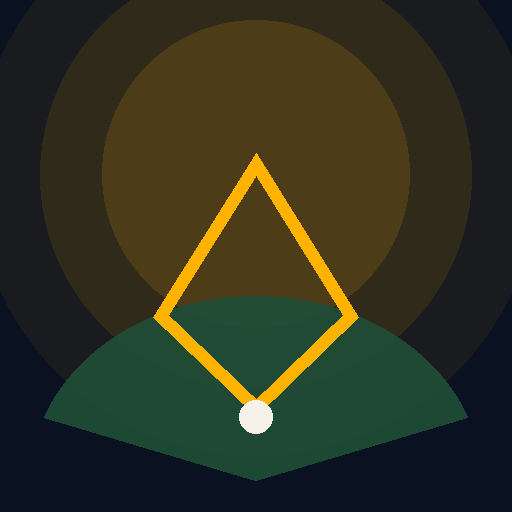
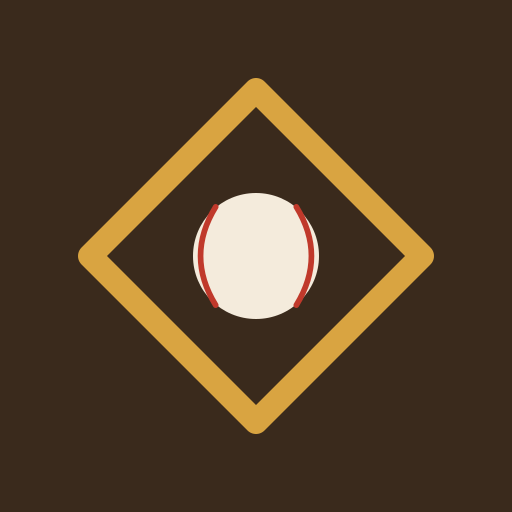
アプリアイコンをカードショップ・テーマの意匠に差し替え
箔（ゴールドグラデーション）の地に濃茶のカード枠を置き、金のダイヤモンドと
クリームのボールを重ねた意匠に変更。旧アイコン（ナイトテーマの緑の内野）は
現在の配色と合わなくなっていた。

- icons/icon.svg・icons/icon-maskable.svg を原本として追加し、PNGはここから書き出す
- maskable版はランチャーのマスクで図柄が欠けないよう背景を全面に敷き、
  ダイヤモンドとボールを中央のセーフゾーン内に収める
- ファイル名・manifest.json の記述は据え置き（差し替えのみ）

Claude-Session: https://claude.ai/code/session_01YYGGRabf311iJgp8gJVHub

diff --git a/CLAUDE.md b/CLAUDE.md
@@ -52,13 +52,15 @@ js/
   trivia.js       … 豆知識コンテンツ集（ルール・記録/歴史・用語）とランダム抽出
   rules.js        … MLBルール解説画面（カテゴリ別の折りたたみ静的コンテンツ）
   notifications.js … Web Push購読・解除・お気に入りチームIDのSupabase同期
-icons/            … オリジナル生成アイコン（商標不使用）
+icons/            … オリジナル生成アイコン（商標不使用）。icon.svg / icon-maskable.svg が原本で、
+                    icon-192.png・icon-512.png・icon-maskable-512.png はそこから書き出したもの
 supabase/schema.sql … Push購読テーブルのDDL（Supabase SQL Editorで実行）
 scripts/send-notifications.mjs … 毎日夕方JSTのPushダイジェスト送信（GitHub Actions専用・送信ウィンドウ判定つき）
 .github/workflows/notify.yml    … 送信スケジュール（cron）と手動テスト送信（workflow_dispatch）
 ```
 
 ## 実装済み
+- **アプリアイコンの刷新**（2026-09-05）：カードショップ・テーマに合わせ、箔（`--foil`のゴールドグラデーション）の地に濃茶のカード枠、金のダイヤモンド（内野）とクリームのボールを重ねた意匠に変更。原本は`icons/icon.svg`（通常）と`icons/icon-maskable.svg`（maskable）で、PNGはここから書き出す。maskable版はランチャーのマスクで欠けないよう背景を全面に敷き、図柄を中央のセーフゾーン内に収めている。ロゴ・商標は使わず、図形と配色のみで構成する方針は据え置き。
 - **カードショップ・テーマ**（デザイン刷新・2026-08-24）：トレーディングカード店をモチーフにした配色（クリーム紙＋ブラウン＋ゴールド箔）に変更。`css/card-shop-theme.css`が`style.css`の配色トークン（`--bg-night`/`--amber`等のCSS変数）を上書きするだけで、既存HTML/JSを書き換えずに全体の見た目が切り替わる方式。書体はAlfa Slab One（見出し・数値）＋Noto Serif JP（日本語ラベル）＋Roboto Mono（数値・時刻）。デザイン原本は`design_handoff_card_shop/`（Downloads配下、リポジトリ外）。
 - **ホーム**（ロードマップ1、旧称「表紙」、試合カード2列化・2026-08-24）：本日/前日の試合結果をJST基準で表示（お気に入りチームの試合を先頭に並べ替え）。試合カードは半分サイズの2列グリッドで表示し、チーム名は英語略称（`teamShort`）で表示してカード幅に収める（`css/style.css`の`.game-grid`/`.game-card-compact`、ホーム画面専用でalerts.js等の`.scoreboard-list`には影響しない）。お気に入りチーム選択（IndexedDB保存・該当カードをハイライト）、お気に入り選手の今日の成績コーナー（`js/today-stats.js`）、豆知識のランダム表示
 - **順位表**（ロードマップ1、UI見直し済み・2026-08-23、カードショップ・テーマで機能追加・2026-08-24）：画面最上部に全球団の簡易US地図プロット（旧「チーム検索」画面を吸収）。リーグ・地区・PS圏内のみの絞り込み（何も選ばなければ全30球団を表示、条件はAND）を備え、地図の球団タップでチームシート（お気に入り登録可）を開く。PS圏内判定は`teamRecord.wildCardGamesBack`の符号で行う（`hasWildcard`は全球団trueになる構造的フラグのため使用不可、詳細は`standings.js`のコメント参照）。地図の下に地区ごとのブロックを並べ、各ブロックは「ゲーム差ものさし」（`js/gb-ruler.js`）と順位表テーブル（勝敗・勝率・ゲーム差）をセットで表示する。行左端のPS区分の色帯は 地区首位＝金／WC圏内＝緑／当落線上＝赤（圏外は帯なし）で、金と当落線上が同系色で見分けにくかったため色相をはっきり離してある。地区ブロックの下にワイルドカード争い表（当落線を破線で表示、`js/postseason.js`）。チーム名タップでチーム紹介（全画面表示）。旧チーム検索の検索ボックス・地区別簡易リストは重複のため廃止。
